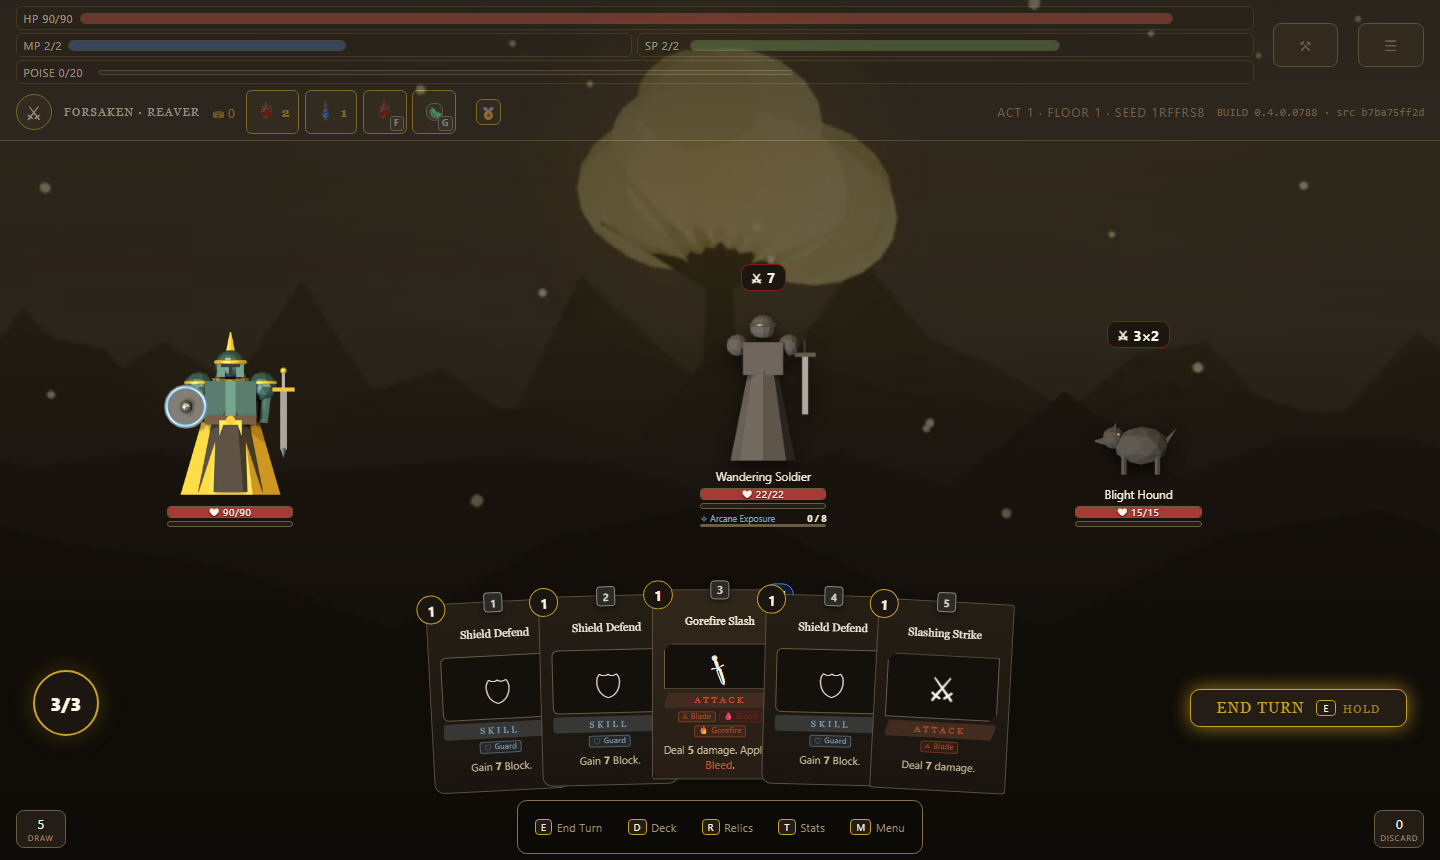
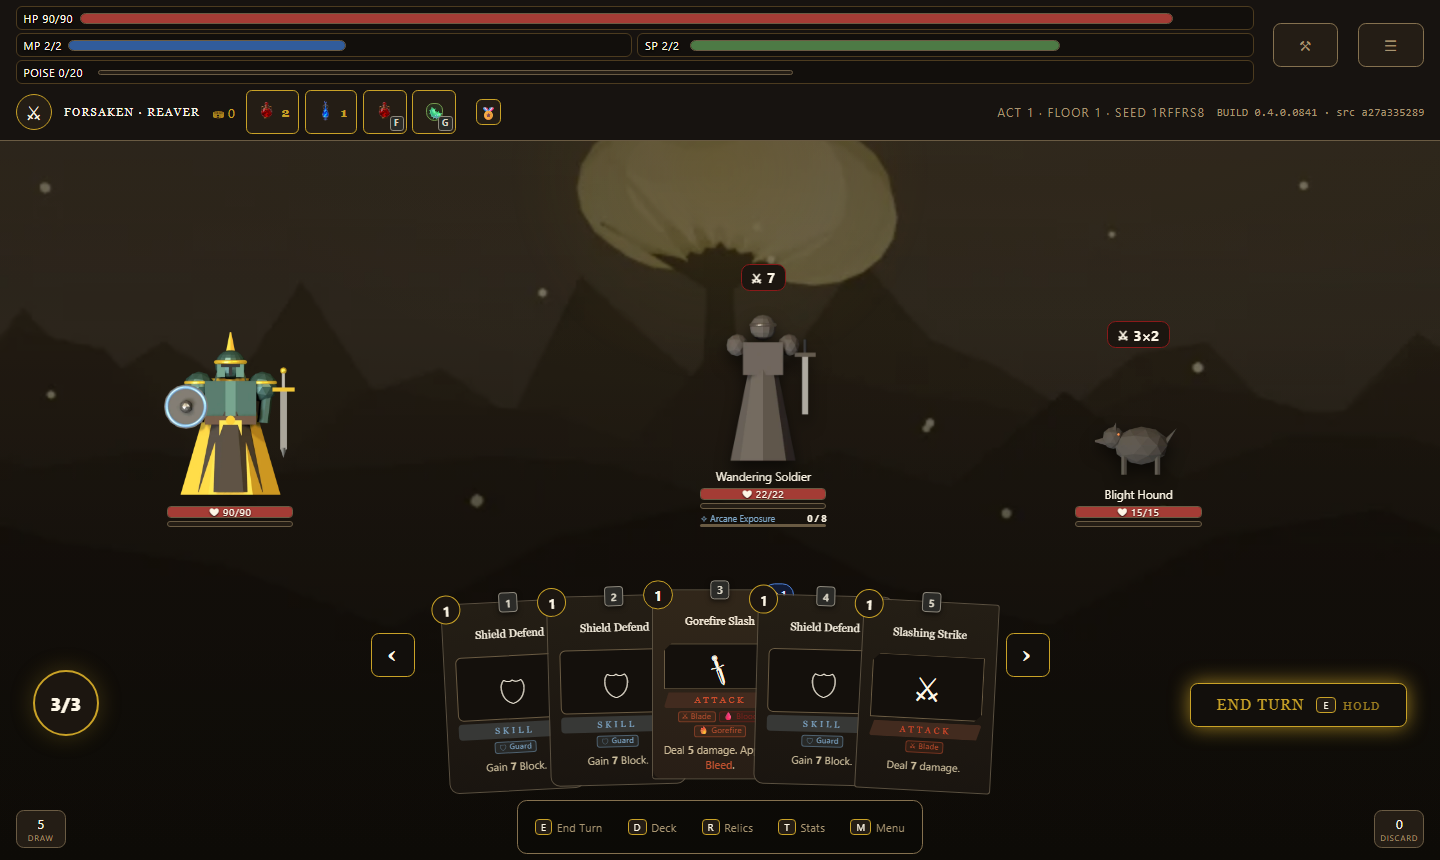
docs: link current dev Pages preview (#182)
Put the canonical development build URL high in the README, label it release-RED, and refresh representative exact-dev screenshots with matching before/after evidence.

diff --git a/README.md b/README.md
@@ -4,11 +4,19 @@ A single-player roguelike deckbuilder for the browser. Mechanically faithful to 
 
 > **Status: feature-complete core loop.** Three classes, three acts, three bosses, seeded and save-resumable end to end. See [DEVELOPER.md](DEVELOPER.md) to run and extend it.
 
-## Current build
+## Play the current development build
 
-**Play the current reviewed development build:** download or open
-**[`AshenSpire.html`](AshenSpire.html)** from the repository root. It is a
-self-contained file: double-click it to play without installing dependencies.
+**[Play AshenSpire in your browser](https://cehinds.github.io/AshenSpire/AshenSpire.html)**
+
+That stable GitHub Pages URL publishes the repository-root `AshenSpire.html`
+from the default `dev` branch and follows the newest reviewed development build
+after GitHub Pages finishes deploying it. This is a **development preview**, not
+a release, tag, or production approval. Release status remains governed
+separately and is currently **RED**.
+
+For offline play, download [`AshenSpire.html`](AshenSpire.html) from the
+repository root and double-click it. It is a self-contained file and requires
+no installation.
 
 The root file is a discoverability alias for [`dist/AshenSpire.html`](dist/AshenSpire.html).
 Both are generated from [`build/AshenSpire.html`](build/AshenSpire.html) by
@@ -16,15 +24,17 @@ Both are generated from [`build/AshenSpire.html`](build/AshenSpire.html) by
 either copy differs from that build. The file is development evidence, not a
 release declaration; release status remains governed separately.
 
-## Preview
+## Current development screenshots
 
-![Combat](docs/preview/combat.png)
+These canonical images are captured from the exact `dev` tree by
+`node tools/screenshot.mjs`. Regenerate and review them whenever the development
+build changes; the visible build stamp ties each image to the tree that drew it.
 
-![Act map](docs/preview/map.png)
+| Title | Act map | Combat |
+|---|---|---|
+| [![Current development title screen](docs/preview/title.png)](https://cehinds.github.io/AshenSpire/AshenSpire.html) | [![Current development act map](docs/preview/map.png)](https://cehinds.github.io/AshenSpire/AshenSpire.html) | [![Current development combat](docs/preview/combat.png)](https://cehinds.github.io/AshenSpire/AshenSpire.html) |
 
-More: the [title screen](docs/preview/title.png) and the three
-[class sprites](docs/preview/class-sprites.svg). Regenerate the screenshots any
-time with `node tools/screenshot.mjs` (uses your local Chrome/Edge headlessly).
+More: the three [class sprites](docs/preview/class-sprites.svg).
 
 ## Playing
 
